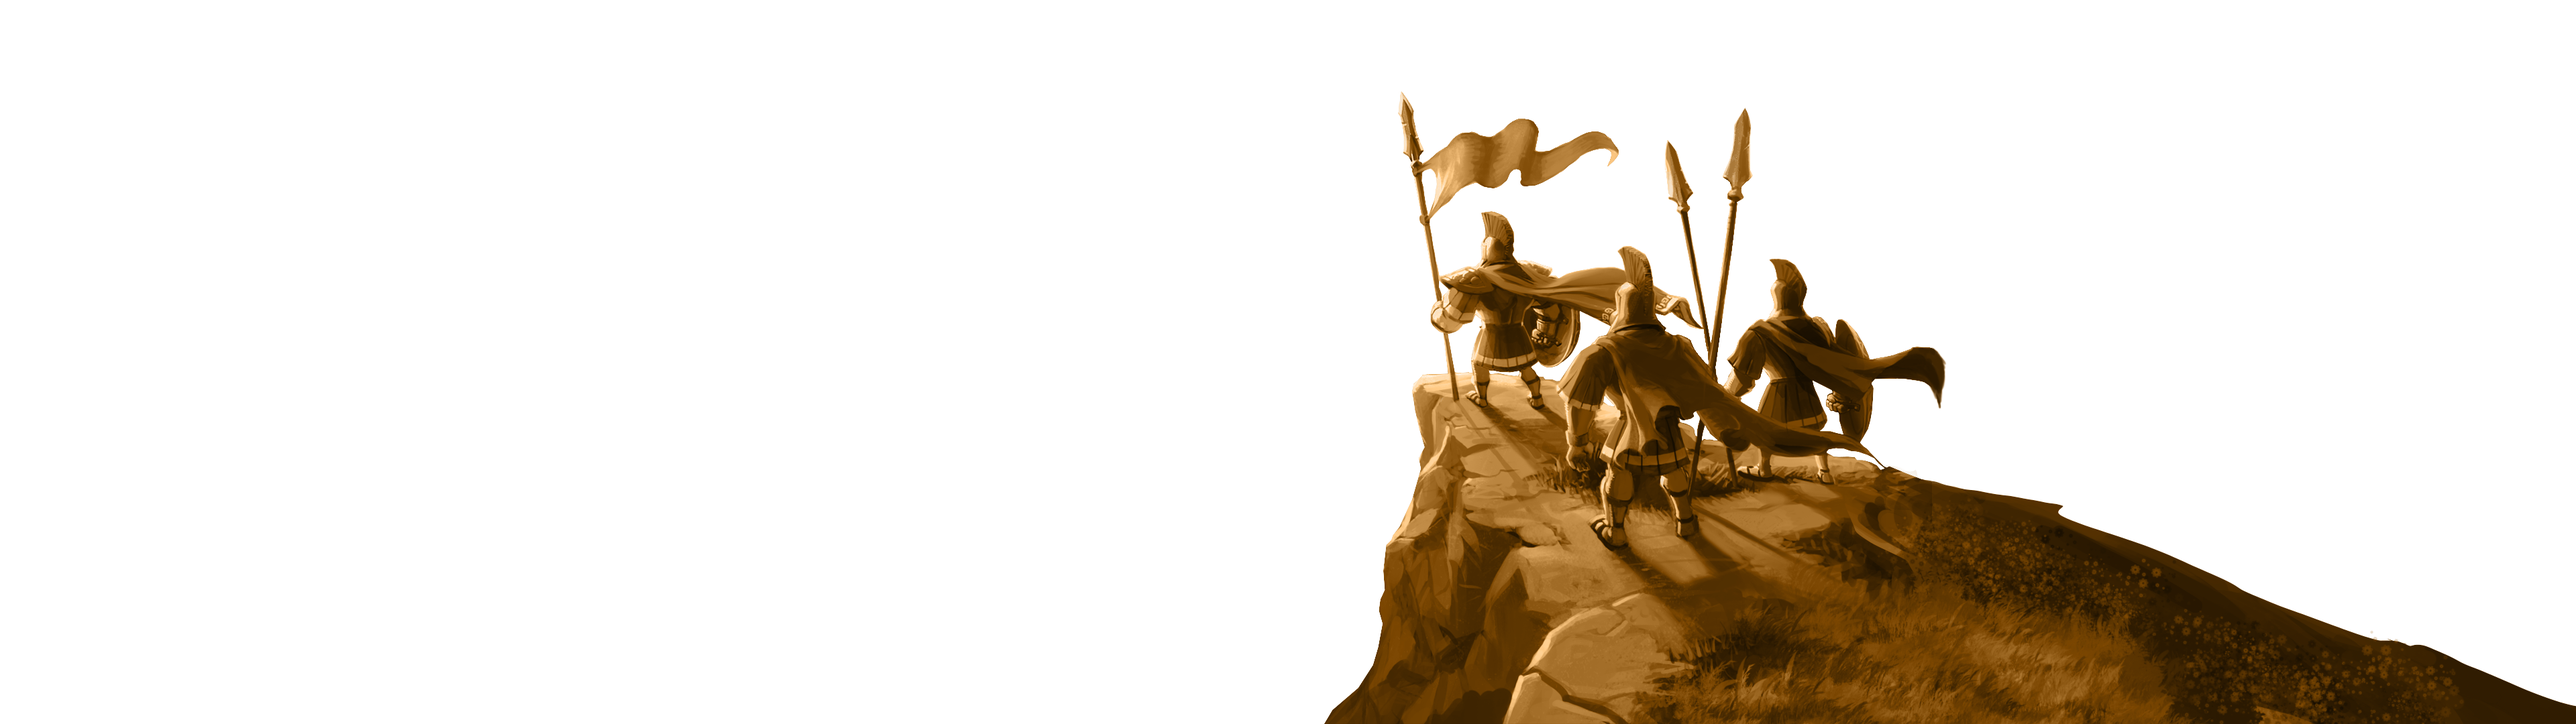
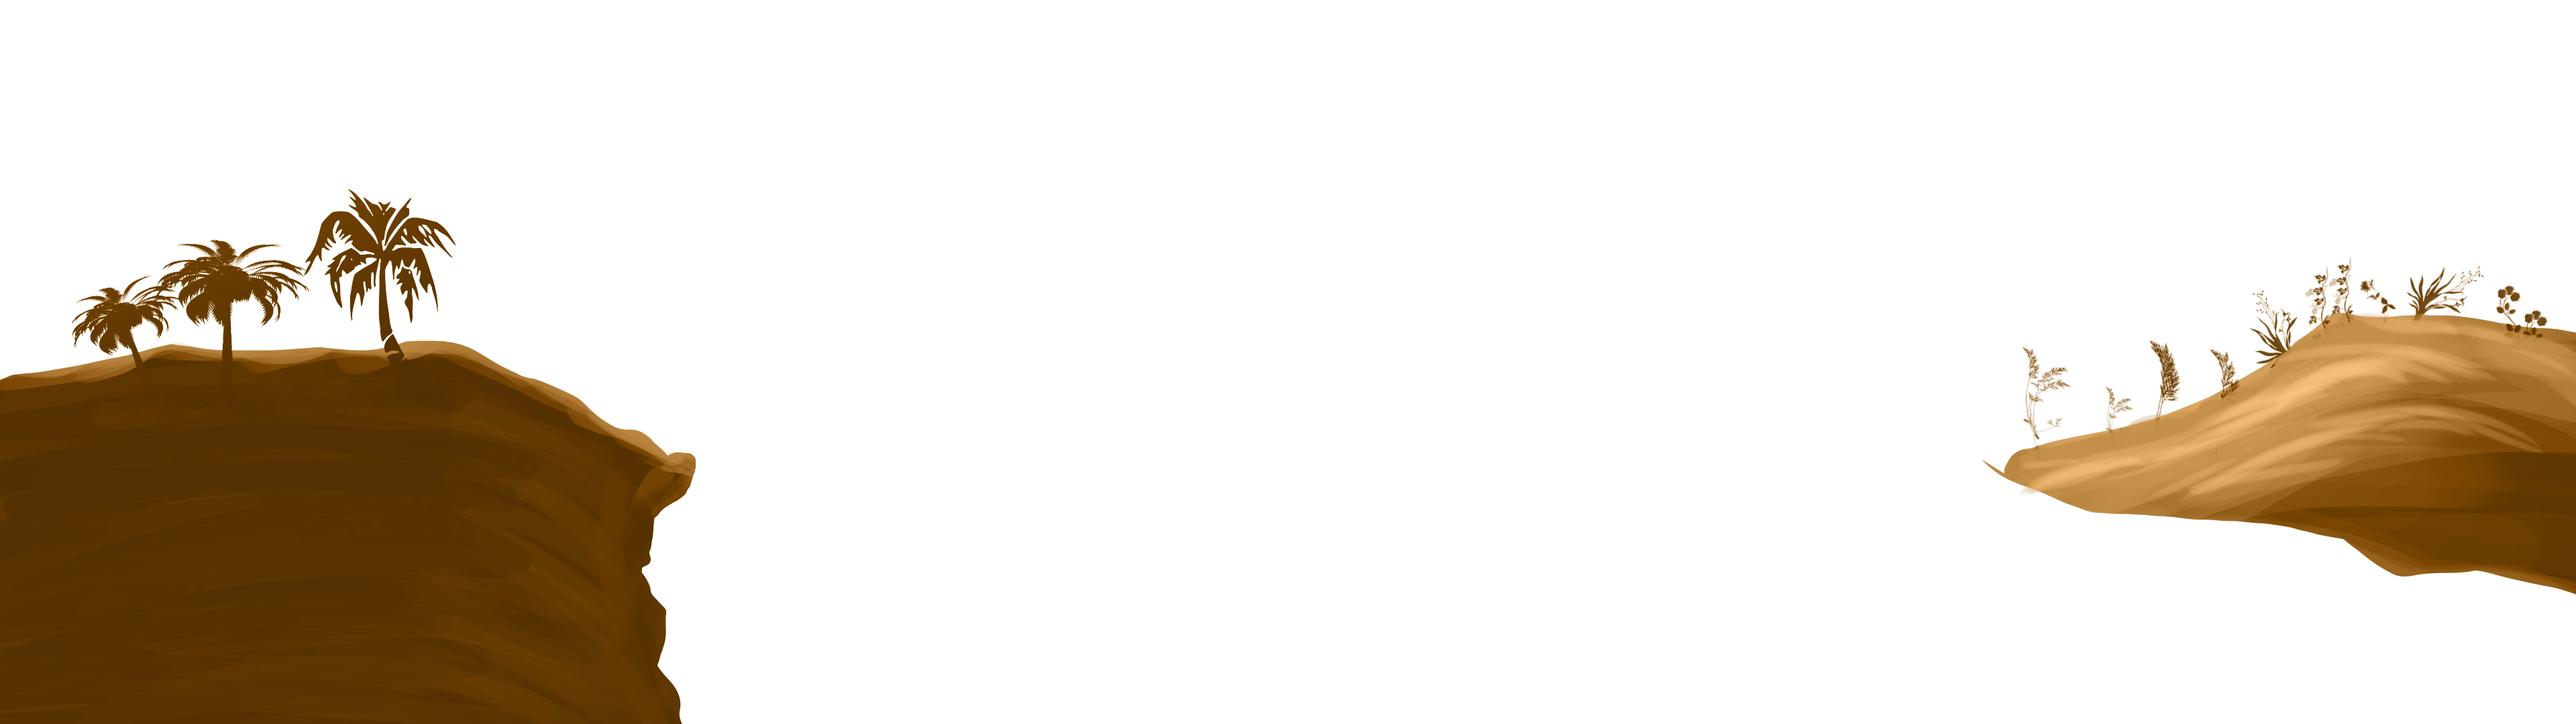
Improve parallax

diff --git a/components/Parallax.vue b/components/Parallax.vue
@@ -6,6 +6,7 @@
     <div id="parallax-layer-3" ref="layer3" class="parallax-layer" />
     <div id="parallax-layer-4" ref="layer4" class="parallax-layer" />
     <div id="parallax-layer-5" ref="layer5" class="parallax-layer" />
+    <div id="parallax-layer-6" ref="layer6" class="parallax-layer" />
   </section>
 </template>
 
@@ -14,7 +15,7 @@ export default {
   name: "Parallax",
   data() {
     return {
-      speeds: [2, 5, 16, 26, 36, 0]
+      speeds: [2, 8, 5, 16, 26, 36, 0]
     }
   },
   mounted() {
@@ -29,7 +30,7 @@ export default {
   methods: {
     update() {
       const top = window.pageYOffset
-      for (let i = 0; i < 6; i++) {
+      for (let i = 0; i < 7; i++) {
         const y = -((top * this.speeds[i]) / 100)
         this.$refs[
           "layer" + i
@@ -60,27 +61,31 @@ export default {
 
 #parallax-layer-0 {
   background-image: url("~assets/img/landing/day/CelesteParallax-0.png");
-  z-index: -6;
+  z-index: -8;
 }
 #parallax-layer-1 {
   background-image: url("~assets/img/landing/day/CelesteParallax-1.png");
-  z-index: -5;
+  z-index: -7;
 }
 #parallax-layer-2 {
   background-image: url("~assets/img/landing/day/CelesteParallax-2.png");
-  z-index: -4;
+  z-index: -6;
 }
 #parallax-layer-3 {
   background-image: url("~assets/img/landing/day/CelesteParallax-3.png");
-  z-index: -3;
+  z-index: -5;
 }
 #parallax-layer-4 {
   background-image: url("~assets/img/landing/day/CelesteParallax-4.png");
-  z-index: -2;
+  z-index: -4;
 }
 #parallax-layer-5 {
-  position: relative;
   background-image: url("~assets/img/landing/day/CelesteParallax-5.png");
+  z-index: -3;
+}
+#parallax-layer-6 {
+  position: relative;
+  background-image: url("~assets/img/landing/day/CelesteParallax-6.png");
   z-index: -2;
 
   &:after {

diff --git a/pages/index.vue b/pages/index.vue
@@ -28,6 +28,6 @@ export default {
 
 <style lang="scss" scoped>
 #after-parallax {
-  background: linear-gradient(180deg, #1d1101 0%, $color--darker--opaque 20%);
+  background: linear-gradient(180deg, #1d1101 0%, $color--darker--opaque 50%);
 }
 </style>
